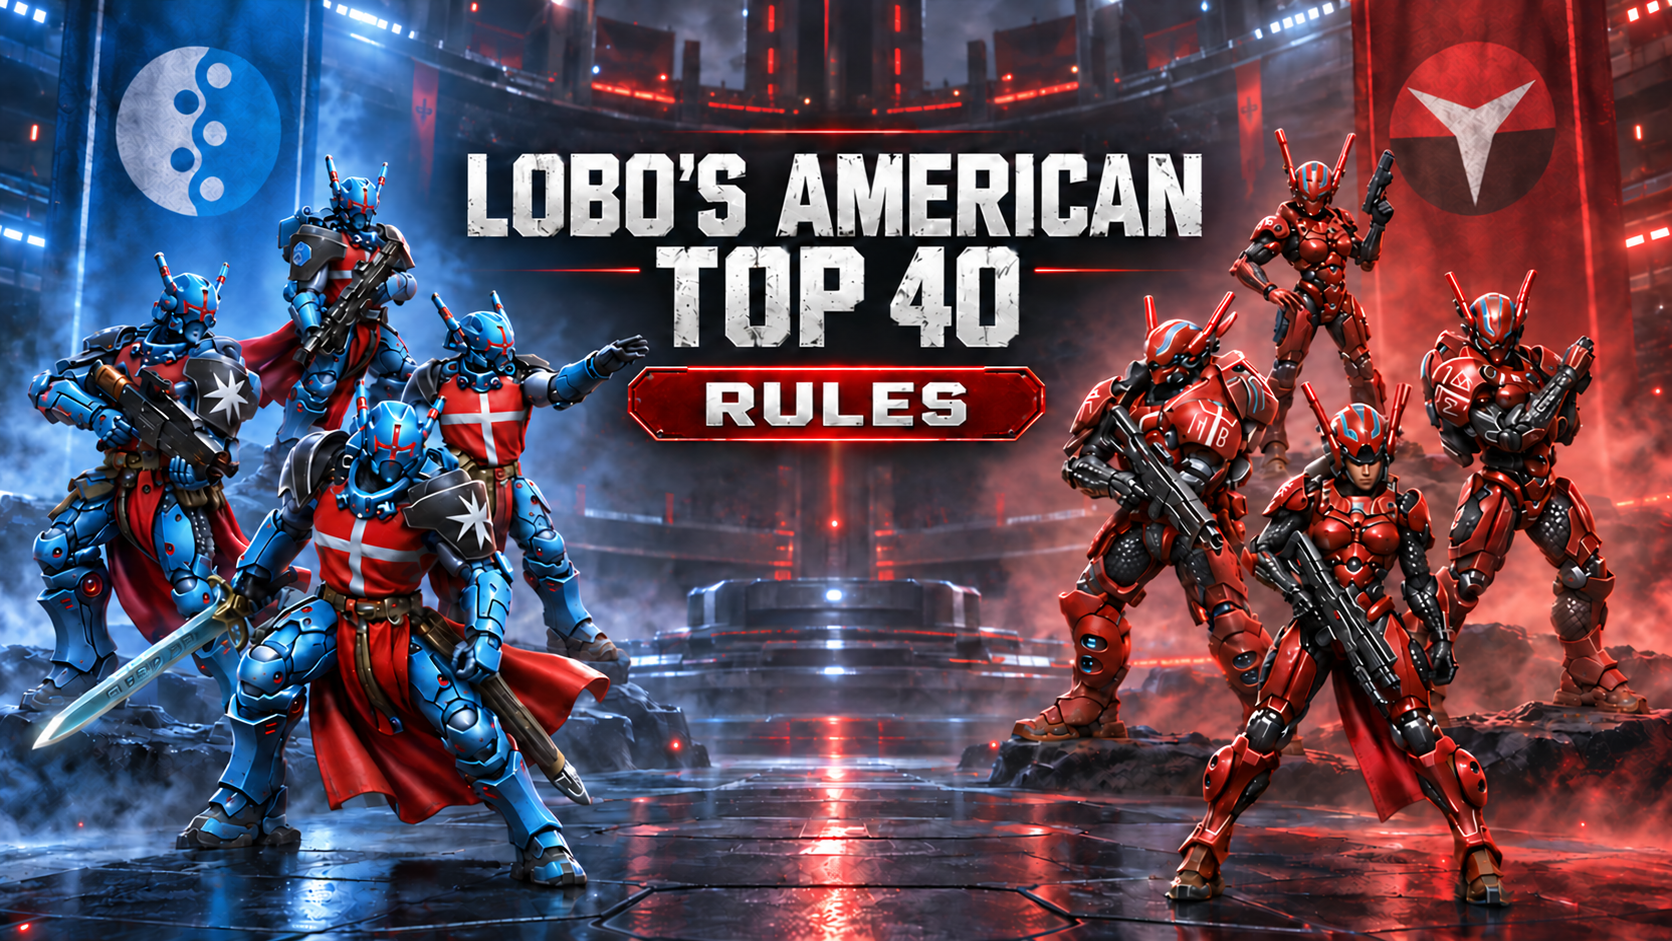
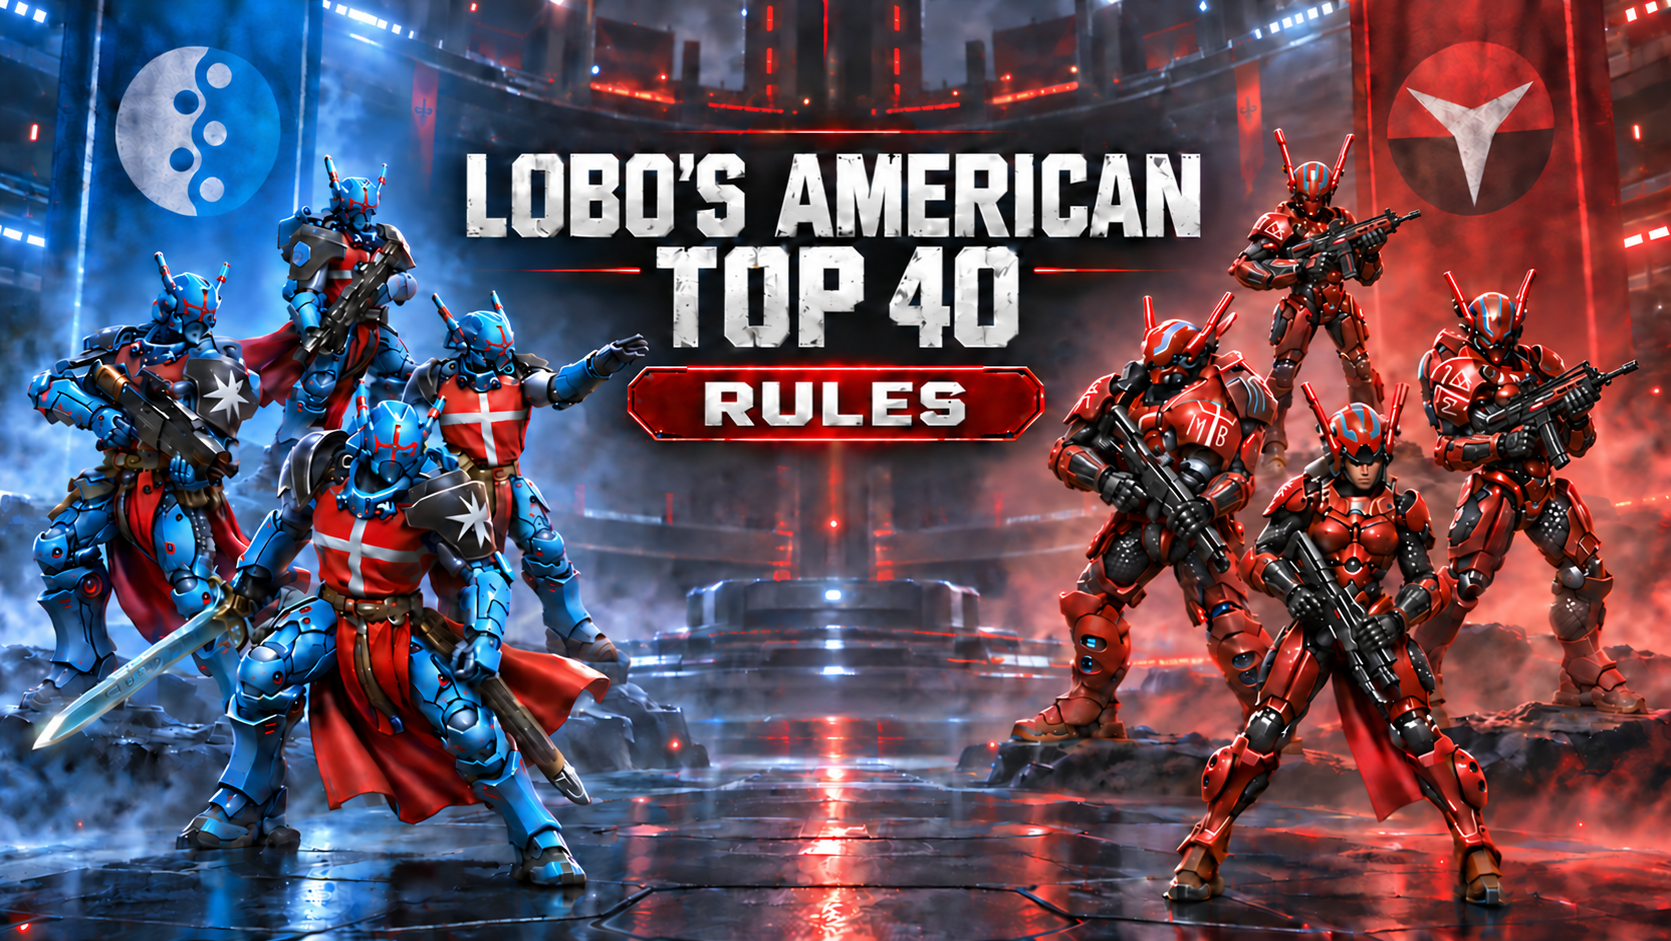
Replace Top 40 rules artwork

diff --git a/lobo-infinity-portal/src/components/Top40RulesPage.tsx b/lobo-infinity-portal/src/components/Top40RulesPage.tsx
@@ -24,8 +24,8 @@ export default function Top40RulesPage() {
         <img
           alt="Lobo's American Top 40 Rules"
           height="941"
-          src="/assets/events/top-40-rules-v2.png"
-          width="1672"
+          src="/assets/events/top-40-rules.png?v=e49f616a"
+          width="1671"
         />
       </figure>
       <nav className="event-home-nav" aria-label="Event navigation">
